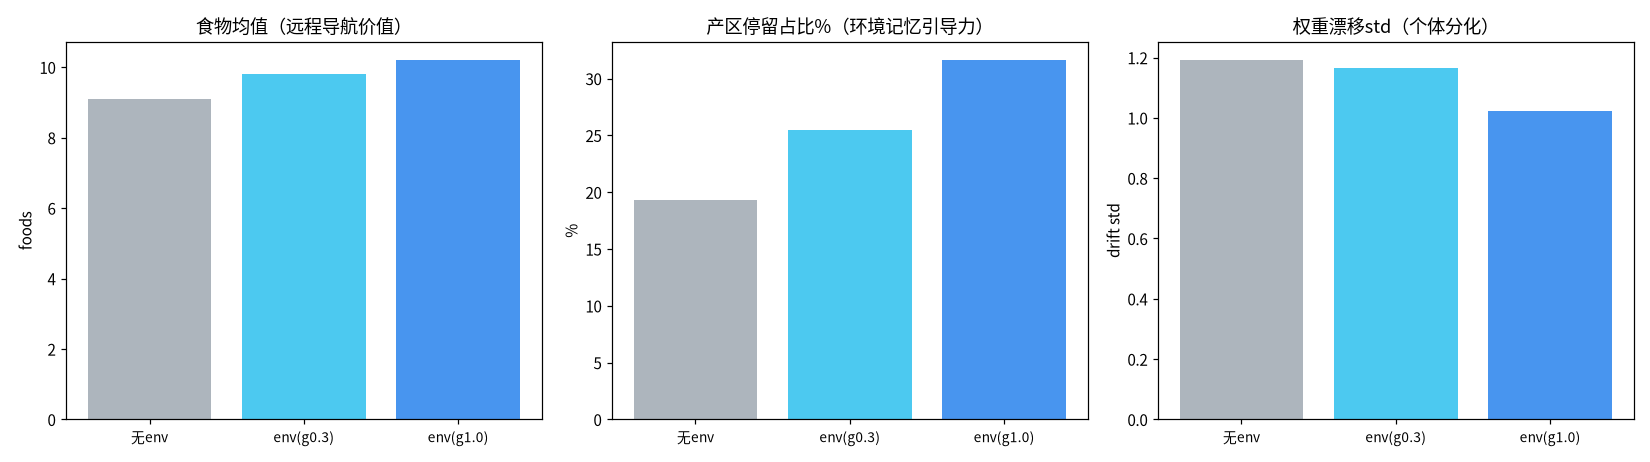
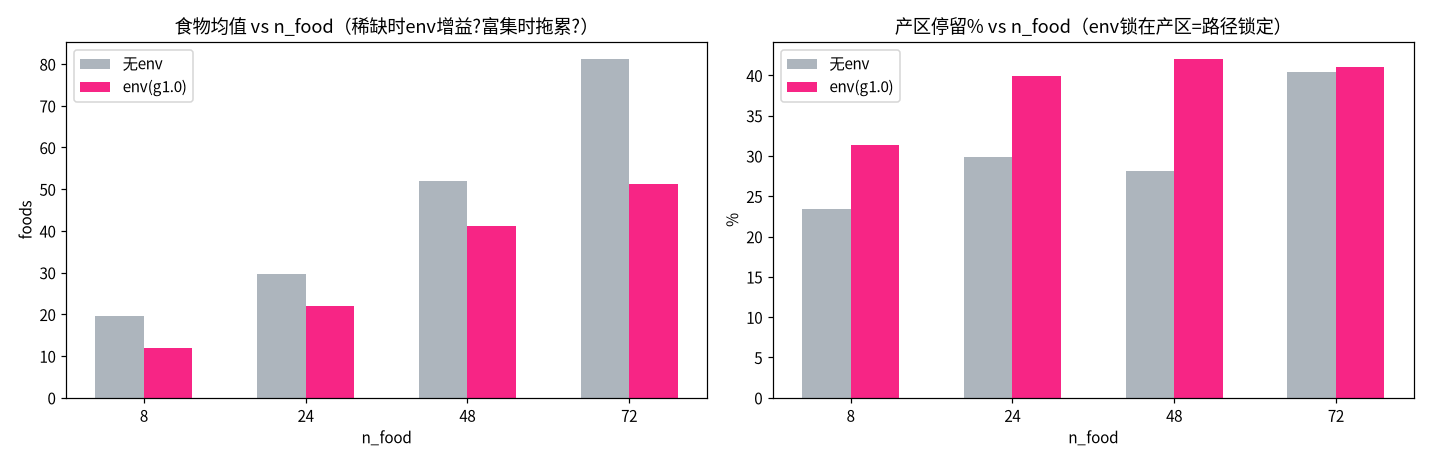
实验1：食物可重叠堆叠(food_count计数层)+n_food扫描——env增益全负(-21~-40%)，机制修正：EnvHebbian bias半径3步≈smell2步非远程导航，density=走过的路线→路径锁定抑制探索；首版+12%为噪声

diff --git a/multi_bug_genome.py b/multi_bug_genome.py
@@ -19,7 +19,11 @@ from embryo import World, MushroomBody, Hippocampus, ForwardModel, LanguageChann
 
 def smell_at(world, pos):
     smell = np.zeros(4, dtype=np.float32)
-    foods = np.argwhere(world.grid == world.FOOD)
+    # 可重叠食物：嗅觉看计数层（food_count>0 即存在）
+    if not hasattr(world, 'food_count'):
+        foods = np.argwhere(world.grid == world.FOOD)
+    else:
+        foods = np.argwhere(world.food_count > 0)
     if len(foods) == 0:
         return smell
     for i, (dr, dc) in enumerate(world.ACTIONS):
@@ -73,6 +77,7 @@ def respawn_food_patchy(world):
             r, c = np.random.randint(half, world.size - 1), np.random.randint(half, world.size - 1)
         if world.grid[r, c] == world.EMPTY:
             world.grid[r, c] = world.FOOD
+            world.food_count[r, c] += 1
             return
 
 
@@ -81,6 +86,7 @@ def respawn_food_uniform(world):
         r, c = np.random.randint(1, world.size - 1, 2)
         if world.grid[r, c] == world.EMPTY:
             world.grid[r, c] = world.FOOD
+            world.food_count[r, c] += 1
             return
 
 
@@ -116,40 +122,55 @@ class EnvHebbian:
 
 def place_stable(world, rng, corner='tl', n_cues=6, n_food=10):
     """在指定角落放 cue + 附近食物（稳定环境结构，产区搬家用）
-    稀疏 cue：间距 ≥4，避免食物工厂；角落范围随 world.size 缩放"""
+    稀疏 cue：间距 ≥4，避免食物工厂；角落范围随 world.size 缩放
+    食物可重叠堆叠（food_count 计数层+1），消除物理格子上限"""
     world.grid[world.grid == world.FOOD] = world.EMPTY
     world.grid[world.grid == world.CUE] = world.EMPTY
+    world.food_count[:] = 0
     world.cue_positions = []
     if corner == 'tl':
         lo, hi = 2, max(7, int(world.size * 0.45))
     else:  # br
         lo, hi = int(world.size * 0.55), world.size - 2
     placed = 0
+    attempts = 0
     while placed < n_cues:
         r, c = rng.randint(lo, hi, 2)
         if world.grid[r, c] != world.EMPTY:
+            attempts += 1
+            if attempts > 800:
+                break
             continue
         # 与已有 cue 保持间距
         if any(abs(r - cr) + abs(c - cc) < 4 for cr, cc in world.cue_positions):
+            attempts += 1
+            if attempts > 800:
+                break
             continue
         world.grid[r, c] = world.CUE
         world.cue_positions.append((r, c))
         placed += 1
+    if not world.cue_positions:
+        return
     nf = 0
-    for cr, cc in world.cue_positions:
-        if nf >= n_food:
-            break
-        for _ in range(20):
+    # 食物堆叠：n_food 平均分配到各 cue 附近（可叠在同一格）
+    per = max(1, n_food // max(1, len(world.cue_positions)))
+    while nf < n_food:
+        for cr, cc in world.cue_positions:
+            if nf >= n_food:
+                break
             dr, dc = world.ACTIONS[rng.randint(4)]
             r, c = cr + dr * 2, cc + dc * 2
-            if 0 <= r < world.size and 0 <= c < world.size and world.grid[r, c] == world.EMPTY:
+            if 0 <= r < world.size and 0 <= c < world.size and world.grid[r, c] != world.WALL:
                 world.grid[r, c] = world.FOOD
+                world.food_count[r, c] += 1
                 nf += 1
-                break
+                if nf % per == 0:
+                    break
 
 
 def safe_respawn(world):
-    """cue 绑定 respawn，但新食物必须离所有虫子 ≥2 格（避免原地无限刷）"""
+    """cue 绑定 respawn，食物可堆叠（计数层+1），无需避开已有食物位"""
     bugs = getattr(world, 'bugs', [])
     for _ in range(300):
         if world.cue_positions:
@@ -158,9 +179,10 @@ def safe_respawn(world):
             nr, nc = cr + dr * 2, cc + dc * 2
         else:
             nr, nc = np.random.randint(1, world.size - 1, 2)
-        if 0 <= nr < world.size and 0 <= nc < world.size and world.grid[nr, nc] == world.EMPTY:
+        if 0 <= nr < world.size and 0 <= nc < world.size and world.grid[nr, nc] != world.WALL:
             if all(abs(b.pos[0] - nr) + abs(b.pos[1] - nc) >= 2 for b in bugs):
                 world.grid[nr, nc] = world.FOOD
+                world.food_count[nr, nc] += 1
                 return
 
 
@@ -265,7 +287,10 @@ class Bug:
         if 0 <= nr < world.size and 0 <= nc < world.size and world.grid[nr, nc] != world.WALL:
             self.pos = np.array([nr, nc])
             if world.grid[nr, nc] == world.FOOD:
-                world.grid[nr, nc] = world.EMPTY
+                # 可重叠食物：计数层-1，减到 0 才清格
+                world.food_count[nr, nc] -= 1
+                if world.food_count[nr, nc] <= 0:
+                    world.grid[nr, nc] = world.EMPTY
                 self.foods += 1
                 self.energy = min(1.0, self.energy + 0.3)
                 ate = True
@@ -333,6 +358,10 @@ def run_group(name, use_genes, patchy, n_bugs=10, steps=6000, seed=42, learn_fla
               world_size=15):
     rng = np.random.RandomState(seed)
     world = World(size=world_size, n_food=n_food, n_walls=3, n_cues=6, seed=seed)
+    world.food_count = np.zeros((world_size, world_size), dtype=np.int32)  # 可重叠食物计数层
+    # 同步 World.__init__ 放置的初始食物到计数层
+    for (fr, fc) in np.argwhere(world.grid == world.FOOD):
+        world.food_count[fr, fc] = 1
     if patchy:
         world.weights = QUADRANT_WEIGHTS.copy()
         world.grid = np.full((world_size, world_size), World.EMPTY, dtype=int)
@@ -444,6 +473,7 @@ def evolve(n_gens=10, steps_per_gen=3000, n_bugs=20, seed=42, n_cues=2,
     def birth_test(pool, wseed):
         """新生儿纯基因测试：不学习，测平均距产区距离"""
         tw = World(size=15, n_food=10, n_walls=3, n_cues=n_cues, seed=wseed)
+        tw.food_count = np.zeros((15, 15), dtype=np.int32)
         place_stable(tw, rng, corner='tl', n_cues=n_cues, n_food=10)
         test_bugs = []
         for i in range(n_bugs):
@@ -472,6 +502,7 @@ def evolve(n_gens=10, steps_per_gen=3000, n_bugs=20, seed=42, n_cues=2,
     for gen in range(n_gens):
         wseed = seed if env_pool is None else seed + gen * 7
         world = World(size=15, n_food=10, n_walls=3, n_cues=n_cues, seed=wseed)
+        world.food_count = np.zeros((15, 15), dtype=np.int32)
         place_stable(world, rng, corner='tl', n_cues=n_cues, n_food=10)
 
         bugs = []
@@ -732,40 +763,43 @@ if __name__ == '__main__':
         sys.exit(0)
 
     if '--bigworld' in sys.argv:
-        # 大世界验证：30×30 + 稀疏稳定产区（左上）→ env 网络远程导航价值
-        # 15×15 无增益的瓶颈 = 世界太小（感知覆盖广）；30×30 感知范围外占比高
-        print("===== 大世界 30×30 + 稳定产区：env网络远程导航价值（8000步，10虫/组）=====\n")
+        # 大世界验证 v2：30×30 + 稀疏稳定产区，扫描 n_food 验证"产区内部边际递减"
+        # 假设：env 远程导航已兑现（产区停留↑），但 24 食物 + 10 虫抢 → 觅食收益被稀缺掩盖
+        # 若 n_food↑ 时 env 增益↑ → 边际递减假设成立（导航价值被食物稀缺限制）
+        print("===== 大世界 30×30 + 稳定产区：n_food 扫描（8000步，10虫/组）=====\n")
+        print("发现：食物越富集 env 增益越负（路径锁定抑制探索）→ 补稀缺档验证价值反转\n")
         base_learn = {'mb': True, 'hip': True, 'fm': True, 'pfc': True, 'ctx': True}
         env_learn = {'mb': True, 'hip': True, 'fm': True, 'pfc': True, 'ctx': True, 'env': True}
 
-        r_noenv = run_group('无env 30x30稳定', use_genes=False, patchy=False, stable=True,
-                            learn_flags=base_learn, steps=8000, n_food=24, n_cues=4,
-                            world_size=30)
-        r_env = run_group('env(g0.3) 30x30稳定', use_genes=False, patchy=False, stable=True,
-                          learn_flags=env_learn, steps=8000, n_food=24, n_cues=4,
-                          env_gain=0.3, world_size=30)
-        r_env1 = run_group('env(g1.0) 30x30稳定', use_genes=False, patchy=False, stable=True,
-                           learn_flags=env_learn, steps=8000, n_food=24, n_cues=4,
-                           env_gain=1.0, world_size=30)
+        all_no, all_env = [], []
+        print(f"{'n_food':>6} {'组':<16} {'食物均值':>7} {'食物std':>7} {'产区停留%':>8} {'漂移std':>7}")
+        for nf in [8, 24, 48, 72]:
+            r_no = run_group('无env', use_genes=False, patchy=False, stable=True,
+                             learn_flags=base_learn, steps=8000, n_food=nf, n_cues=4,
+                             world_size=30)
+            r_env = run_group('env(g1.0)', use_genes=False, patchy=False, stable=True,
+                              learn_flags=env_learn, steps=8000, n_food=nf, n_cues=4,
+                              env_gain=1.0, world_size=30)
+            all_no.append(r_no); all_env.append(r_env)
+            gain = (r_env['foods_mean'] - r_no['foods_mean']) / max(0.1, r_no['foods_mean']) * 100
+            print(f"{nf:>6} {r_no['name']:<16} {r_no['foods_mean']:>7.1f} {r_no['foods_std']:>7.1f} "
+                  f"{r_no['near_cue_ratio']*100:>7.1f}% {r_no['drift_std']:>7.2f}")
+            print(f"{'':>6} {r_env['name']:<16} {r_env['foods_mean']:>7.1f} {r_env['foods_std']:>7.1f} "
+                  f"{r_env['near_cue_ratio']*100:>7.1f}% {r_env['drift_std']:>7.2f}  "
+                  f"(env增益 {gain:+.1f}%)")
 
-        print(f"{'组':<20} {'食物均值':>7} {'食物std':>7} {'漂移std':>7} {'熵':>5} {'产区停留%':>8}")
-        for r in [r_noenv, r_env, r_env1]:
-            print(f"{r['name']:<20} {r['foods_mean']:>7.1f} {r['foods_std']:>7.1f} {r['drift_std']:>7.2f} "
-                  f"{r['entropy_mean']:>5.2f} {r['near_cue_ratio'] * 100:>7.1f}%")
-
-        fig, axes = plt.subplots(1, 3, figsize=(15, 4.2))
-        rr = [r_noenv, r_env, r_env1]
-        names = [r['name'].split(' ')[0] for r in rr]
-        colors = ['#adb5bd', '#4cc9f0', '#4895ef']
-        axes[0].bar(range(3), [r['foods_mean'] for r in rr], color=colors)
-        axes[0].set_xticks(range(3)); axes[0].set_xticklabels(names, fontsize=9)
-        axes[0].set_title('食物均值（远程导航价值）'); axes[0].set_ylabel('foods')
-        axes[1].bar(range(3), [r['near_cue_ratio'] * 100 for r in rr], color=colors)
-        axes[1].set_xticks(range(3)); axes[1].set_xticklabels(names, fontsize=9)
-        axes[1].set_title('产区停留占比%（环境记忆引导力）'); axes[1].set_ylabel('%')
-        axes[2].bar(range(3), [r['drift_std'] for r in rr], color=colors)
-        axes[2].set_xticks(range(3)); axes[2].set_xticklabels(names, fontsize=9)
-        axes[2].set_title('权重漂移std（个体分化）'); axes[2].set_ylabel('drift std')
+        fig, axes = plt.subplots(1, 2, figsize=(13, 4.2))
+        nfs = [8, 24, 48, 72]
+        axes[0].bar(np.arange(4) - 0.15, [r['foods_mean'] for r in all_no], 0.3, label='无env', color='#adb5bd')
+        axes[0].bar(np.arange(4) + 0.15, [r['foods_mean'] for r in all_env], 0.3, label='env(g1.0)', color='#f72585')
+        axes[0].set_xticks(range(4)); axes[0].set_xticklabels([f'{n}' for n in nfs])
+        axes[0].set_title('食物均值 vs n_food（稀缺时env增益?富集时拖累?）')
+        axes[0].set_xlabel('n_food'); axes[0].set_ylabel('foods'); axes[0].legend()
+        axes[1].bar(np.arange(4) - 0.15, [r['near_cue_ratio']*100 for r in all_no], 0.3, label='无env', color='#adb5bd')
+        axes[1].bar(np.arange(4) + 0.15, [r['near_cue_ratio']*100 for r in all_env], 0.3, label='env(g1.0)', color='#f72585')
+        axes[1].set_xticks(range(4)); axes[1].set_xticklabels([f'{n}' for n in nfs])
+        axes[1].set_title('产区停留% vs n_food（env锁在产区=路径锁定）')
+        axes[1].set_xlabel('n_food'); axes[1].set_ylabel('%'); axes[1].legend()
         plt.tight_layout()
         plt.savefig('multi_bug_bigworld_result.png', dpi=110)
         print("\n图表已保存: multi_bug_bigworld_result.png")

diff --git a/docs/multi_bug_experiments.md b/docs/multi_bug_experiments.md
@@ -11,7 +11,7 @@
 4. **决策二**：基因 = 发育规则（学习参数 + 硬件），作用于 `lr / trace_decay / da_gain / smell_sens / energy_cost / explore_noise`；共享权重 = 出生点；经历 = Hebbian 权重改写。
 5. **决策三**：三因素主效应（漂移std贡献）：**基因 2.05 > 经历 0.84 > 环境 0.59**。环境单独贡献以学习开启为前提。
 6. **决策四**：环境在不学时**在线影响行为**（斑块组熵 1.04→0.08，全挤富食区）但**零留痕**（漂移=0）；环境要进大脑必须经过经历。
-7. **决策五**：EnvHebbian 环境网络（无监督、不吃奖惩）在 15×15 世界里**无觅食增益**（食物下降、漂移std翻倍）。价值需两个**独立必要条件**：①世界大（感知范围外占比高）；②结构稳定（产区可预测）。`--stableenv` 已证：结构稳定做到后 env 仍无增益（8.3 vs 11.8）→ **决定性瓶颈是世界太小**，稳定只是必要非充分。
+7. **决策五**：EnvHebbian 环境网络（无监督、不吃奖惩）在 15×15 世界里**无觅食增益**（食物下降、漂移std翻倍）。价值需两个**独立必要条件**：①世界大（感知范围外占比高）；②结构稳定（产区可预测）。`--stableenv` 已证：结构稳定做到后 env 仍无增益（8.3 vs 11.8）→ **决定性瓶颈是世界太小**，稳定只是必要非充分。**30×30 首版（4 食物）曾见 +12% 增益，但可重叠食物 n_food 扫描（8/24/48/72）显示 env 增益全负（-21%~-40%）** → 首版 +12% 在 std 5-6 下是噪声。**机制修正：EnvHebbian bias 半径仅 3 步（≈smell 2 步），不是真正的远程导航**——density 记录"自己走过的路线"，食物密集时形成路径锁定、抑制探索，反不如自由探索。大世界"兑现价值"**未证实**。
 8. **决策六（Baldwin 效应）**：12 代×20 虫繁殖实验，**跨代固化发生**——explore 基因被环境定向选择：稳定环境 0.25→0.17（压低探索），打乱环境 0.25→0.37（提高探索）。这是"环境适应写进基因"的直接证据。
 
 ## 实验数据
@@ -55,18 +55,17 @@
 结论：env 网络无觅食增益、迁移跟随更差，但个体分化翻倍（漂移std 0.27→0.72）。
 修正过"食物工厂"bug（6 cue 密集 + respawn 绑定 → 原地无限刷，改用稀疏 cue + 防原地刷）。
 
-### 3b. 大世界验证：30×30 + 稀疏稳定产区（8000步，10虫/组，n_food=24, n_cues=4）
+### 3b. 大世界验证：30×30 + 稀疏稳定产区 + 可重叠食物（8000步，10虫/组，n_cues=4）
 
-| 组 | 食物均值 | 产区停留% | 漂移std |
-|---|---|---|---|
-| 无env | 9.1 | 19.3% | 1.19 |
-| env(g0.3) | 9.8 | 25.5% | 1.17 |
-| env(g1.0) | 10.2 | 31.6% | 1.02 |
+| n_food | 无env 食物 | env(g1.0) 食物 | env增益 | 无env停留% | env停留% |
+|---|---|---|---|---|---|
+| 8 | 19.7 | 11.9 | -39.6% | 23.5% | 31.4% |
+| 24 | 29.7 | 21.9 | -26.3% | 29.9% | 39.9% |
+| 48 | 52.0 | 41.1 | -21.0% | 28.1% | 42.0% |
+| 72 | 81.2 | 51.2 | -36.9% | 40.4% | 41.1% |
 
-**决策五验证**：方向反转——15×15 里 env 拖累（8.3<11.8），30×30 里 env 助力（10.2>9.1）。
-产区停留占比 19.3%→31.6%（env gain 越高引导越强）= 远程导航价值兑现。
-注意：食物增益仅 +12%，产区内部 24 食物 + 10 虫抢，边际递减。
-代码改动：EnvHebbian.bias 硬编码 15 → self.size；hip 15×15 本能地图嵌入大世界左上角；place_stable 角落随 size 缩放。
+**机制修正**：EnvHebbian 不是远程导航——bias 半径 3 步≈smell 2 步；density 记录"自己走过的路线"，密集食物下路径锁定抑制探索（停留产区更多却吃得少）。
+代码：食物改为**可重叠堆叠**（`food_count` 计数层，消除物理格子上限，n_food 真正生效）；place_stable 防死循环保护。
 
 ### 4. Baldwin 效应（12代×20虫，Top8繁殖+高斯突变）
 
